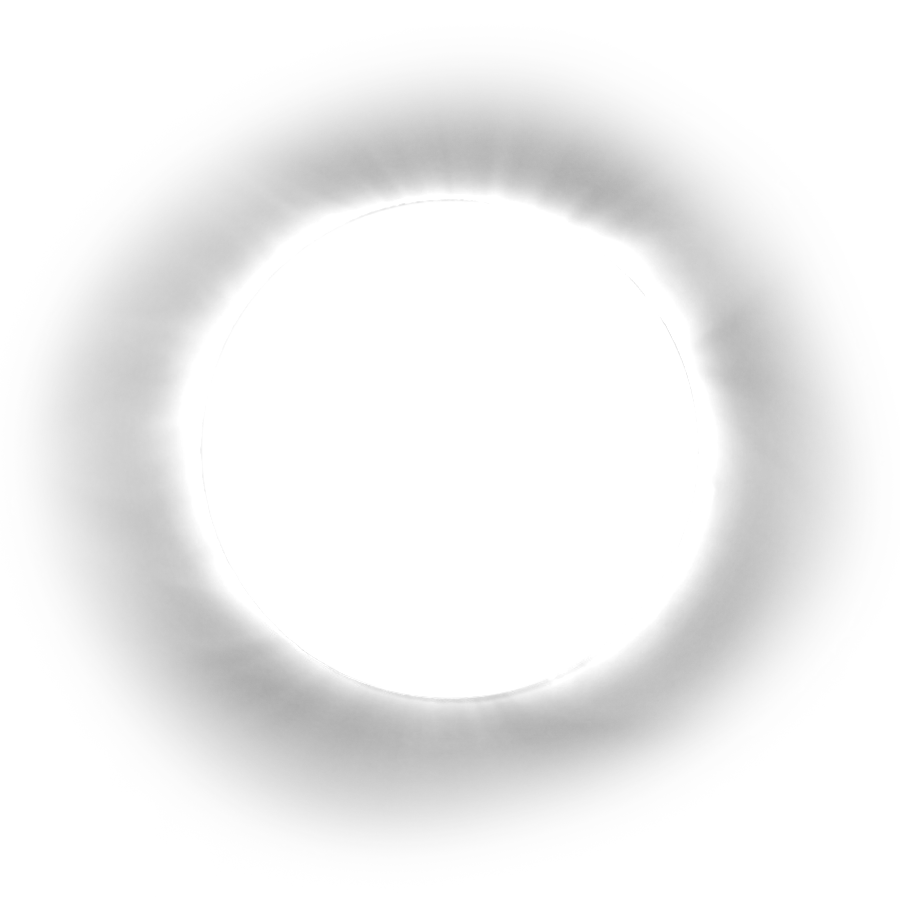
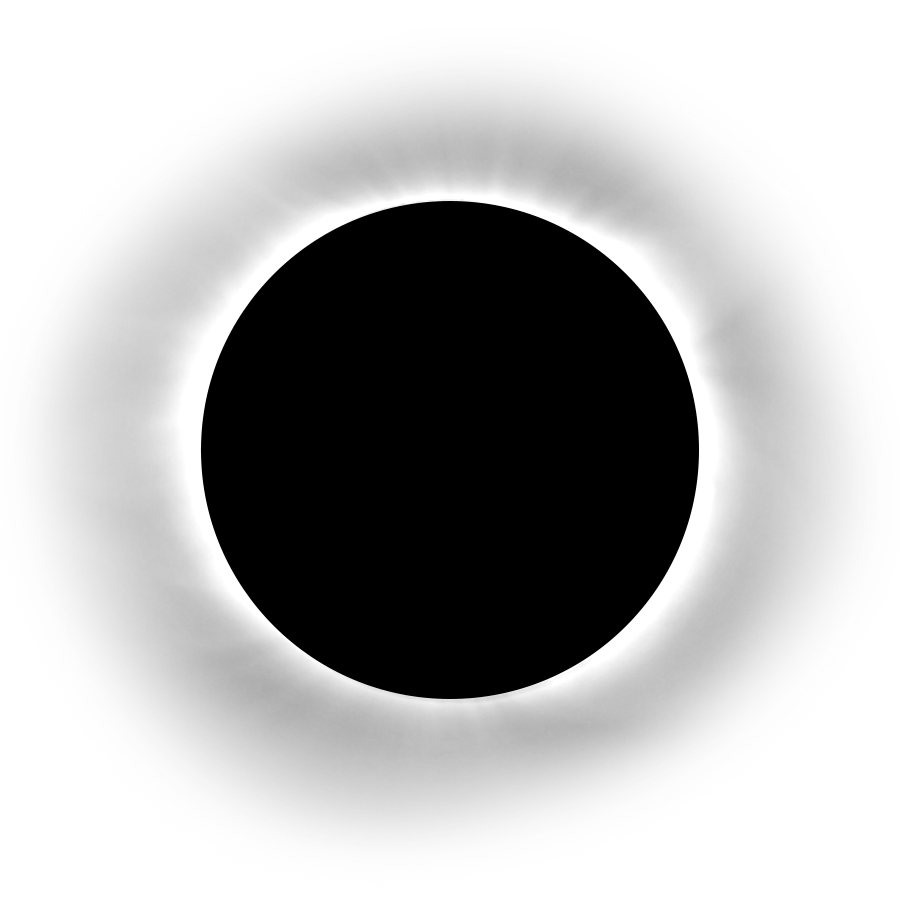
Improved eclipse and added testing keypresses

Changed region(s): [[0.2178, 0.2178, 0.7778, 0.7778]]

diff --git a/src/p5/sketch.js b/src/p5/sketch.js
@@ -1,4 +1,6 @@
-let solarEclipseData, lunarPhaseData, asteroidsData, daysUntilEclipse, solarEclipseImg;
+let solarEclipseData, lunarPhaseData, asteroidsData, daysUntilEclipse, solarEclipseImg, testing = false;
+
+daysUntilEclipse = 50;
 
 const updateData = async () => {
     solarEclipseData = await getSolarEclipses();
@@ -19,8 +21,20 @@ function setup() {
 
 function draw() {
   background(0, 5, 60);
-  drawSolarEclipse(solarEclipseData);
+  drawSun();
   drawLunarPhase(lunarPhaseData);
+  drawSolarEclipse(solarEclipseData);
   drawAsteroids(asteroidsData);
 }
 
+function keyTyped() {
+  switch(key) {
+    case '1': testing = !testing;
+    break;
+
+    case '2': (() => {
+      daysUntilEclipse = calculateDaysUntilEclipse(solarEclipseData);
+    })();
+    break;
+  }
+}

diff --git a/src/dataLogic/drawSolarEclipse.js b/src/dataLogic/drawSolarEclipse.js
@@ -1,14 +1,13 @@
+
 function drawSolarEclipse(data) {
-    //Eclipse
     if (data) {
+        if (testing) {
+            daysUntilEclipse-=0.2;
+        }
         if (Math.abs(daysUntilEclipse+1) < 10) {
             tint(255, 255-(Math.abs(daysUntilEclipse)*17));
             image(solarEclipseImg, (windowWidth/2)-450, 50, 0);
         }
-        
-        //Sun    
-        fill('yellow');
-        ellipse((windowWidth/2 + daysUntilEclipse), windowHeight/2, 510, 510);
     }
 }
 

diff --git a/src/index.html b/src/index.html
@@ -13,6 +13,7 @@
     <script src="./dataLogic/drawAsteroids.js"></script>
     <script src="./dataLogic/drawLunarPhase.js"></script>
     <script src="./dataLogic/drawSolarEclipse.js"></script>
+    <script src="./dataLogic/drawSun.js"></script>
     <script src="./p5/p5.min.js"></script>
     <script src="./p5/addons/p5.dom.min.js"></script>
     <script src="./p5/sketch.js"></script>

diff --git a/src/dataLogic/drawSun.js b/src/dataLogic/drawSun.js
@@ -1,0 +1,4 @@
+function drawSun(data) {
+    fill('yellow');
+    ellipse((windowWidth/2 + daysUntilEclipse*-1), windowHeight/2, 500, 500);
+}
